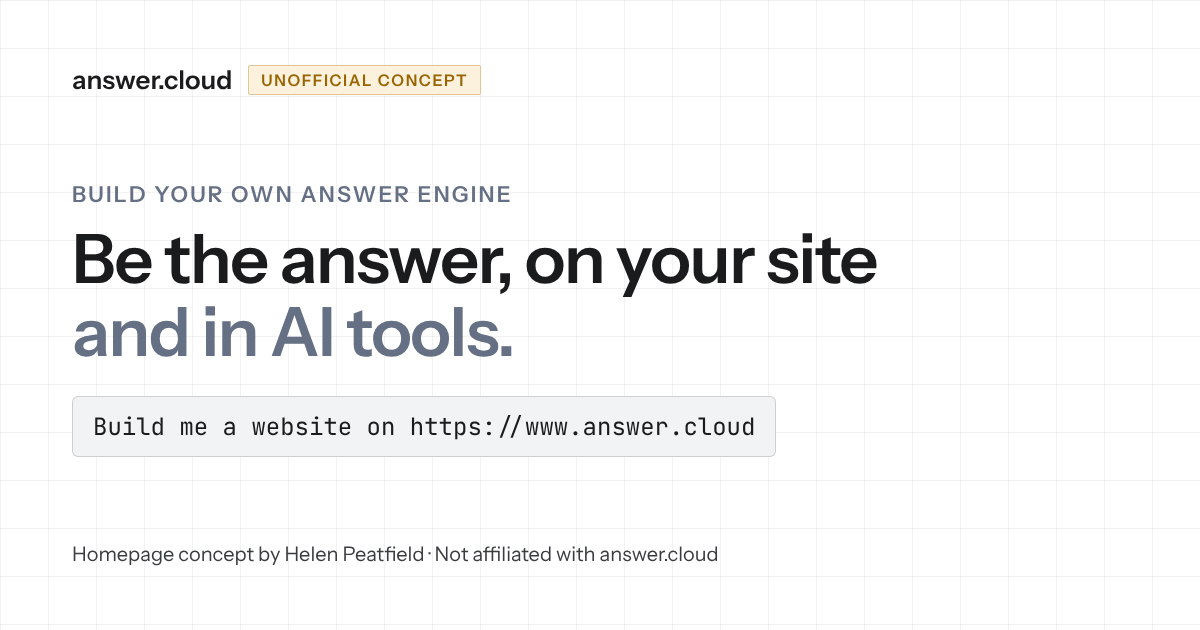
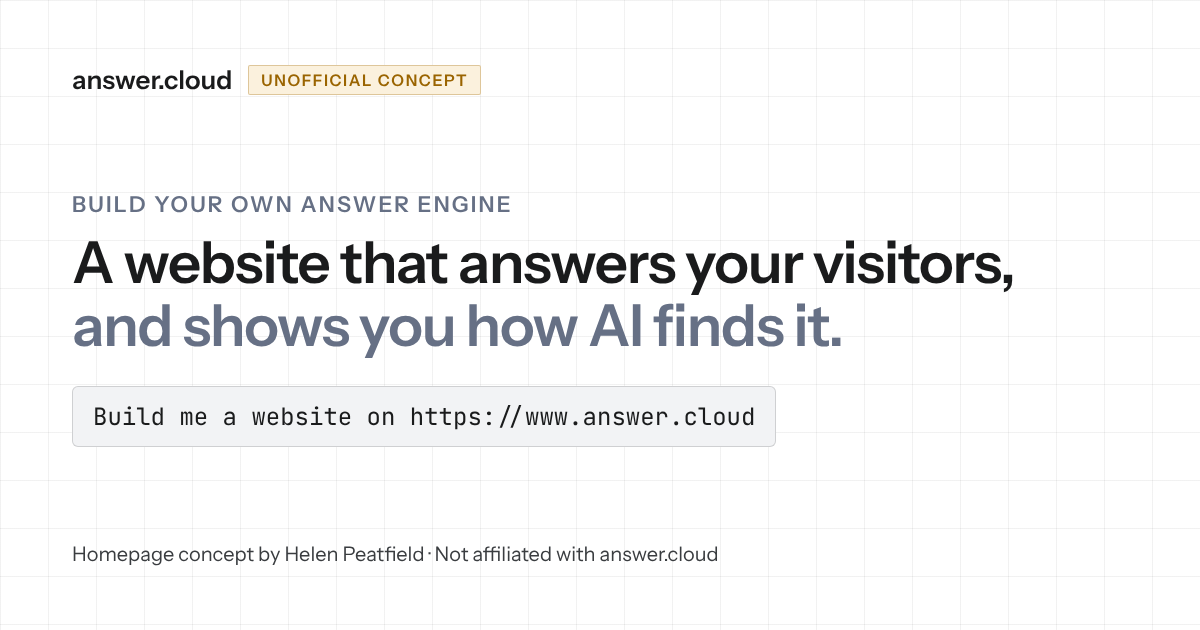
Sharpen hero headline to name both outcomes
'A website that answers your visitors, and shows you how AI finds it.'
replaces 'Be the answer, on your site and in AI tools.' Updates the page
title, share image and its alt text to match. Not yet republished: the
live site needs an authenticated deploy.

Claude-Session: https://claude.ai/code/session_014yVyg7kbHUE962RgcpWbqs

Changed region(s): [[0.0617, 0.2714, 0.8633, 0.573], [0.0617, 0.6032, 0.6475, 0.6937]]

diff --git a/site/src/styles/site.css b/site/src/styles/site.css
@@ -86,7 +86,7 @@
 
 /* ---- Hero ------------------------------------------------------------ */
 .hero .eyebrow { margin-bottom: var(--rhythm-label-heading); }
-.hero-title { max-width: 22ch; margin-bottom: var(--rhythm-heading-body); }
+.hero-title { max-width: 26ch; margin-bottom: var(--rhythm-heading-body); }
 .muted-ink { color: var(--text-muted); }
 
 .prompt-box {
